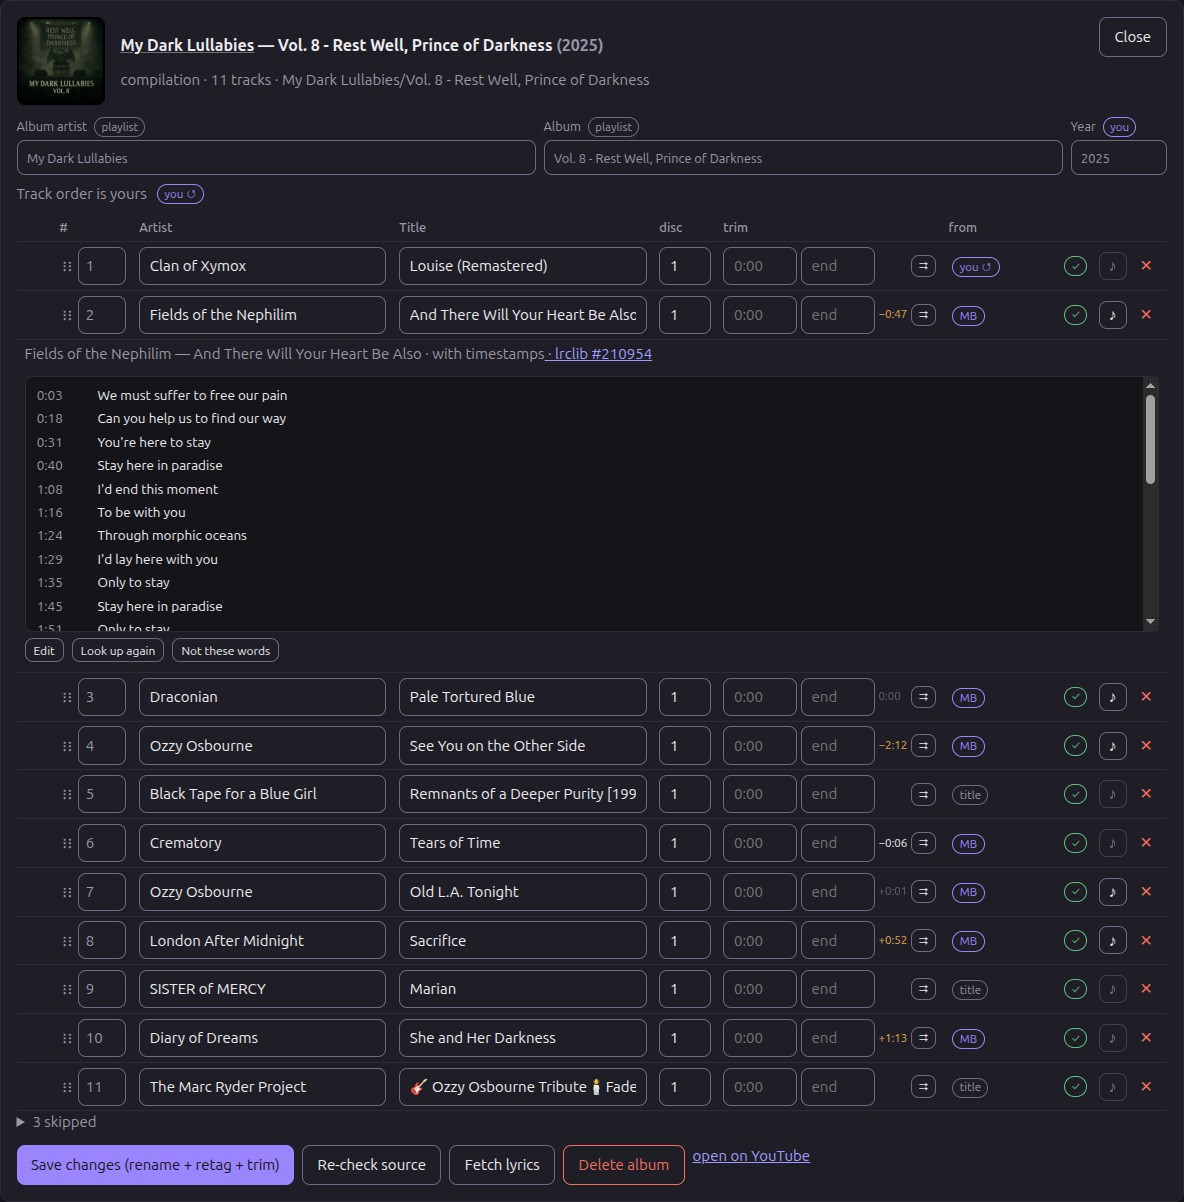
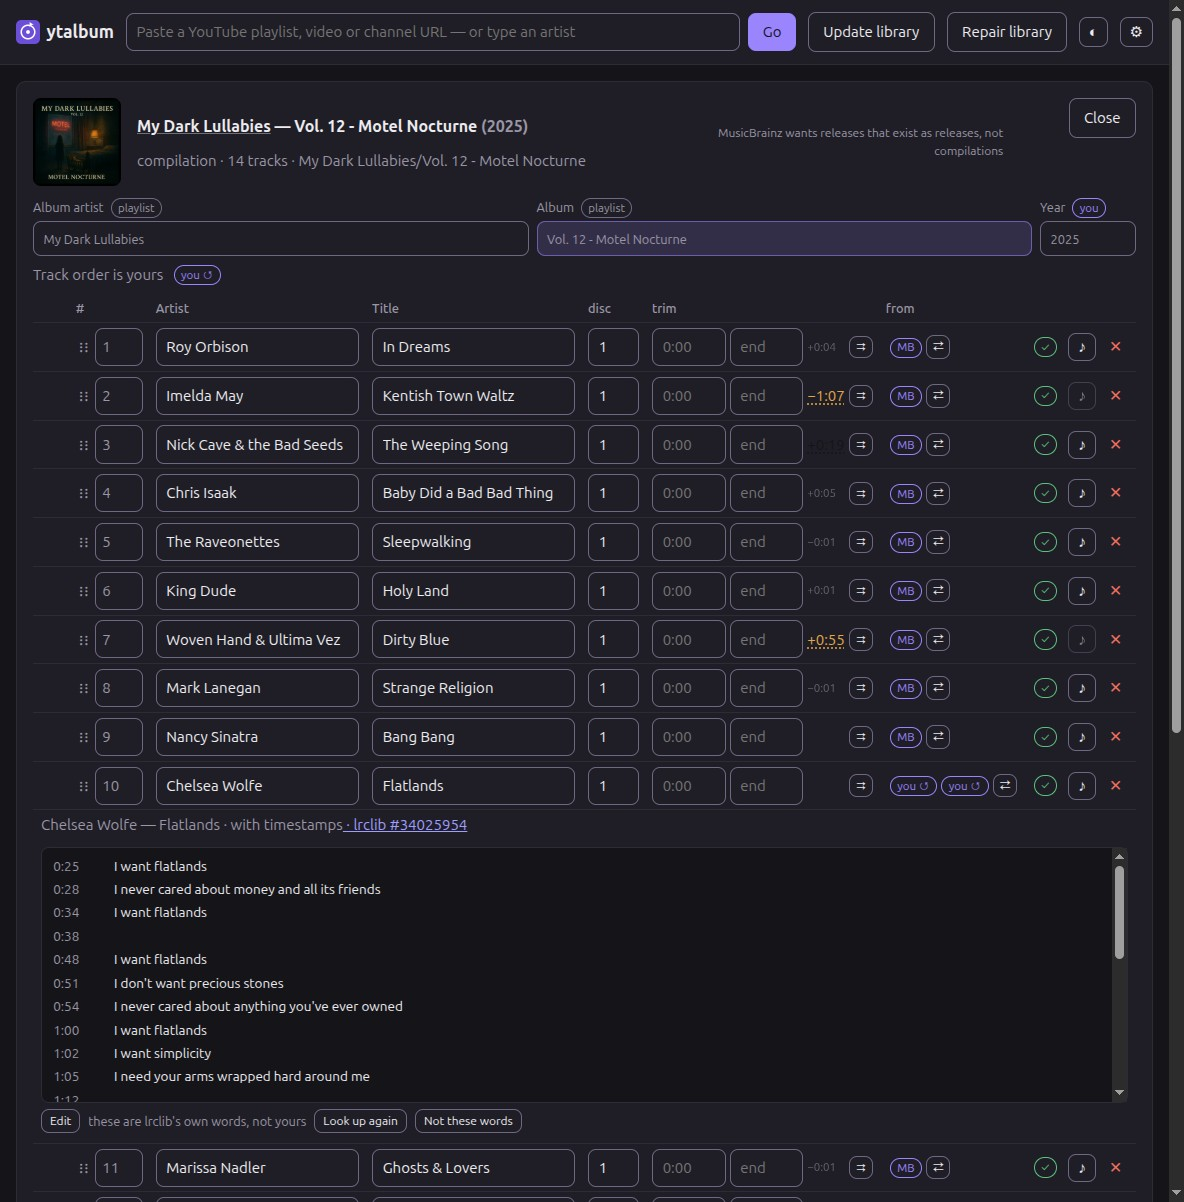
Five pictures of what the last fourteen packages actually look like
The four screenshots were taken at P17, before the alternative source, the
stamp tools, the timing providers, the second opinion, the editor's own clock,
publishing back to LRCLIB, the MusicBrainz offer and the near-miss check
existed. None of that was in a picture.

Retaken from the installed service against the real library, read-only, My Dark
Lullabies throughout, every path anonymised, and each one looked at before it
went in — which is how three of them were rejected and shot again.

A fifth image, because the album view cannot carry the editor any more. Measured
rather than guessed: with the editor open the page is 2533 px and the head-to-
panel-bottom span is 1619 px against a 1202 px frame. Shrinking does not rescue
it — the only tracks in twenty volumes that carry an ownership badge sit at
positions 9 to 12, so the rows above the panel cannot be reduced either. So
album.jpg keeps the album as the reference frame with the panel open and read,
and editor.jpg is the same panel writing.

What the album view now shows that it could not before: the ⇄ source control in
the from column, two `you ↺` badges on a track whose artist and title were
overruled, the ⏱ chips, the seeding refusal in the head ("MusicBrainz wants
releases that exist as releases, not compilations"), and the publish refusal in
the panel — the line added an hour ago, which is in the picture because the
picture is what found it missing.
[…]

diff --git a/README.md b/README.md
@@ -148,10 +148,12 @@ idle minutes.
 
 | | |
 |---|---|
-| ![Album view](docs/screenshots/album.jpg) | ![Channel listing](docs/screenshots/search.jpg) |
-| **Album view:** the cover, every field editable, and where each value came from. Drag a row by its grip to reorder it; the ⏱ column says how far the file is from the length MusicBrainz and LRCLIB know; ♪ opens the lyrics, to read or to write. | **A URL or an artist name:** a URL is previewed first — what a fetch would write, and whether the album is already here — and nothing is downloaded until you say so. A name searches instead: here a curator's channel, every playlist it publishes, "in library" markers, tick what you want. |
-| ![Settings](docs/screenshots/settings.jpg) | ![Library](docs/screenshots/library.jpg) |
-| **Settings:** library folder, YouTube login, MusicBrainz, token helper, parallel requests — and what it found: config file, JS runtime, token generator. | **Library:** one artist's albums, narrowed by the filter with the matches highlighted, ▶ plays all of them, and "check for new albums" asks YouTube for that artist alone. ♪ counts the tracks whose lyrics are here; ⏱ marks an album that is not the length it should be. |
+| ![Album view](docs/screenshots/album.jpg) | ![The lyrics editor](docs/screenshots/editor.jpg) |
+| **Album view:** the cover, every field editable, and where each value came from — `playlist` here, `you` where you have overruled it, and the badge hands the derived value back. Drag a row by its grip to reorder it; the ⏱ column says how far the file is from the length MusicBrainz and LRCLIB know; **⇄** takes a track's audio from another video; ♪ opens the lyrics. Open, they read as timed lines you can click, and the panel says what may be done with them — here, that these are LRCLIB's words and so not yours to give back. The head says why this album is not one to offer MusicBrainz: it is a compilation. | **The lyrics editor:** the same panel, writing. The words are the text in the box, and the list below it is drawn from that text as you type — click a line to hear it, and the line being sung is marked as the song plays, so a proposal can be judged before it is saved. **⏱ stamp this line** writes the moment you are hearing, the nudges move one stamp by a tenth or a half, **shift all** moves every stamp at once, and **⚖ align these words** asks the configured provider to place them all. Nothing is written until Save. |
+| ![Settings](docs/screenshots/settings.jpg) | ![Channel listing](docs/screenshots/search.jpg) |
+| **Settings:** the two timing providers are chosen separately — who may place your words on the clock, and who may write down the words of a track that has none — and each says where the audio goes: `local` never leaves the machine, a vendor takes the audio and its list price is shown with the date it was read. A key that is set reads `•••••••• (set)` and is never shown again. Below: what ytalbum found — config file, JS runtime, token generator. | **A URL or an artist name:** a URL is previewed first — what a fetch would write, and whether the album is already here — and nothing is downloaded until you say so. A name searches instead: here a curator's channel, every playlist it publishes, "in library" markers, tick what you want. |
+| ![Library](docs/screenshots/library.jpg) | |
+| **Library:** one artist's albums, narrowed by the filter with the matches highlighted, ▶ plays all of them, and "check for new albums" asks YouTube for that artist alone. ♪ counts the tracks whose lyrics are here; ⏱ marks an album that is not the length it should be. | |
 
 The compilations throughout these screenshots are
 [**My Dark Lullabies**](https://www.youtube.com/@MyDarkLullabies) — *"a curated collection
